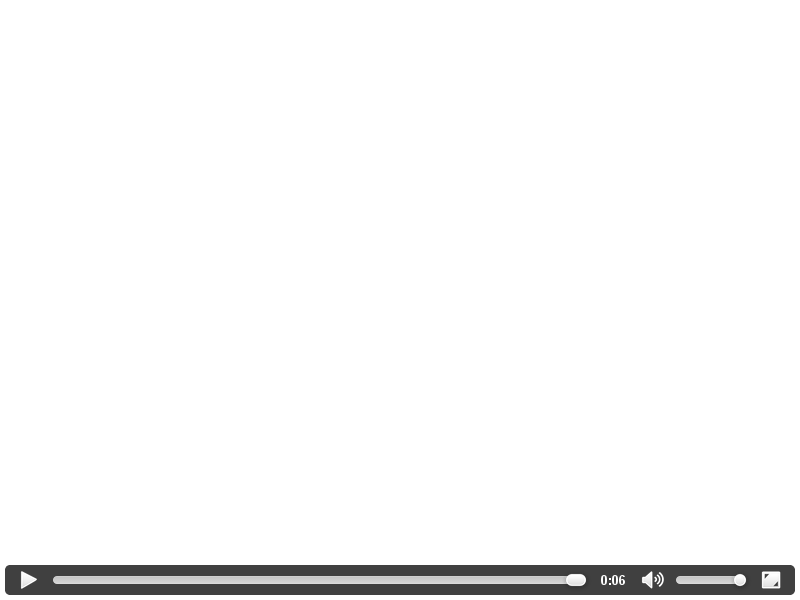
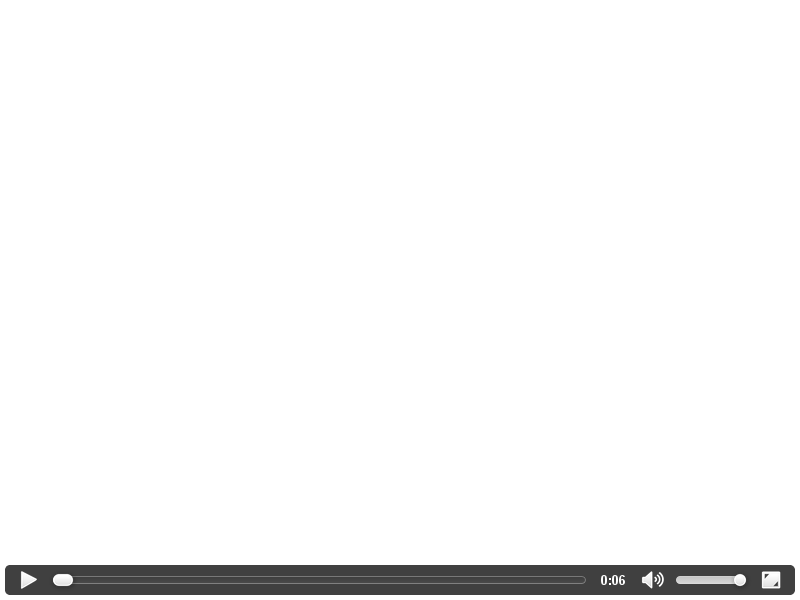
If the media controls are visible they should always grab clicks
Once we have decided to show the media controls it makes no sense to
allow the page to change their handling. This CL ensures that, if the
media controls are shown, then clicks on them actually get to them.

BUG=388738
BUG=269454

Review URL: https://codereview.chromium.org/406213002

git-svn-id: svn://svn.chromium.org/blink/trunk@179397 bbb929c8-8fbe-4397-9dbb-9b2b20218538

Changed region(s): [[0.0625, 0.96, 0.75, 0.99]]

diff --git a/LayoutTests/media/video-controls-touch-events-captured.html b/LayoutTests/media/video-controls-touch-events-captured.html
@@ -1,0 +1,60 @@
+<!DOCTYPE html>
+<html>
+<head>
+
+</head>
+<body>
+    <video controls></video>
+    <p>This tests that touch events on the controls will not be seen by the video element.</p>
+    <script src=media-file.js></script>
+    <script src=video-test.js></script>
+    <script src=media-controls.js></script>
+    <script>
+        waitForEventAndFail("click");
+        waitForEventAndFail("dblclick");
+        waitForEventAndFail("touchstart");
+        waitForEventAndFail("touchend");
+        waitForEventAndFail("touchmove");
+
+        waitForEventAndEnd("loadeddata", function()
+        {
+            if (window.eventSender) {
+                // click the play button
+                var coords = mediaControlsButtonCoordinates(video, "play-button");
+                eventSender.addTouchPoint(coords[0], coords[1]);
+
+                eventSender.touchStart();
+                eventSender.leapForward(100);
+                eventSender.touchEnd();
+                eventSender.cancelTouchPoint(0);
+
+                // Click the current time display, which should not respond to events, but
+                // should still capture them
+                coords = mediaControlsButtonCoordinates(video, "current-time-display");
+                eventSender.addTouchPoint(coords[0], coords[1]);
+
+                eventSender.touchStart();
+                eventSender.leapForward(100);
+                eventSender.touchEnd();
+                eventSender.cancelTouchPoint(0);
+
+
+                // Click the timeline - this tests that multilevel shadow DOM elements work
+                coords = mediaControlsButtonCoordinates(video, "timeline");
+                eventSender.addTouchPoint(coords[0], coords[1]);
+
+                eventSender.touchStart();
+                eventSender.leapForward(100);
+                eventSender.touchEnd();
+
+                // Check that the timeline also captures moves
+                eventSender.updateTouchPoint(0, coords[0]+10, coords[1]+10)
+                eventSender.touchMove();
+                eventSender.cancelTouchPoint(0);
+
+            }
+        });
+        video.src = findMediaFile("video", "content/test");
+    </script>
+</body>
+</html>

diff --git a/LayoutTests/media/video-controls-mouse-events-captured.html b/LayoutTests/media/video-controls-mouse-events-captured.html
@@ -1,0 +1,57 @@
+<!DOCTYPE html>
+<html>
+<head>
+
+</head>
+<body>
+    <video controls></video>
+    <p>This tests that a mouse events on the controls will not be seen by the video element.</p>
+    <p>Also tests keyboard input.</p>
+    <script src=media-file.js></script>
+    <script src=video-test.js></script>
+    <script src=media-controls.js></script>
+    <script>
+        waitForEventAndFail("click");
+        waitForEventAndFail("dblclick");
+        waitForEventAndFail("mousedown");
+        waitForEventAndFail("mouseup");
+        waitForEventAndFail("keydown");
+
+        waitForEventAndEnd("loadeddata", function()
+        {
+            if (window.eventSender) {
+                // click the play button
+                var coords = mediaControlsButtonCoordinates(video, "play-button");
+                eventSender.mouseMoveTo(coords[0], coords[1]);
+
+                eventSender.mouseDown();
+                eventSender.mouseUp();
+                eventSender.keyDown('A');
+
+                // Click the current time display, which should not respond to events, but
+                // should still capture them
+                coords = mediaControlsButtonCoordinates(video, "current-time-display");
+                eventSender.mouseMoveTo(coords[0], coords[1]);
+
+                eventSender.mouseDown();
+                eventSender.mouseUp();
+                eventSender.keyDown('A');
+
+                // Click the timeline - this tests that multilevel shadow DOM elements work
+                coords = mediaControlsButtonCoordinates(video, "timeline");
+                eventSender.mouseMoveTo(coords[0], coords[1]);
+
+                eventSender.mouseDown();
+                eventSender.mouseUp();
+                eventSender.keyDown('A');
+
+                waitForEventAndFail("mousemove")
+                
+                // Check that the timeline also captures mousemove
+                eventSender.mouseMoveTo(coords[0]+10, coords[1]+10)
+            }
+        });
+        video.src = findMediaFile("video", "content/test");
+    </script>
+</body>
+</html>

diff --git a/LayoutTests/virtual/android/fullscreen/video-scrolled-iframe.html b/LayoutTests/virtual/android/fullscreen/video-scrolled-iframe.html
@@ -9,10 +9,10 @@
         if (!initialized) {
              window.scrollTo(0, 100);
             // video has been loaded and messaged us.
-            // Send click to center of iframe.
+            // Send click to iframe (not the center since this will hit the overlay play button).
             iframe = document.getElementById("frame");
-            x = iframe.offsetLeft + iframe.offsetWidth / 2;
-            y = iframe.offsetTop + iframe.offsetHeight / 2;
+            x = iframe.offsetLeft + 10;
+            y = iframe.offsetTop + 10;
             if (window.eventSender) {
                 eventSender.mouseMoveTo(x, y);
                 eventSender.mouseDown();

diff --git a/Source/core/html/shadow/MediaControlElements.cpp b/Source/core/html/shadow/MediaControlElements.cpp
@@ -59,6 +59,33 @@ static const AtomicString& getMediaControlTimeRemainingDisplayElementShadowPseud
 static const double fadeInDuration = 0.1;
 static const double fadeOutDuration = 0.3;
 
+static bool isUserInteractionEvent(Event* event)
+{
+    const AtomicString& type = event->type();
+    return type == EventTypeNames::mousedown
+        || type == EventTypeNames::mouseup
+        || type == EventTypeNames::click
+        || type == EventTypeNames::dblclick
+        || event->isKeyboardEvent()
+        || event->isTouchEvent();
+}
+
+// Sliders (the volume control and timeline) need to capture some additional events used when dragging the thumb.
+static bool isUserInteractionEventForSlider(Event* event)
+{
+    const AtomicString& type = event->type();
+    return type == EventTypeNames::mousedown
+        || type == EventTypeNames::mouseup
+        || type == EventTypeNames::click
+        || type == EventTypeNames::dblclick
+        || type == EventTypeNames::mouseover
+        || type == EventTypeNames::mouseout
+        || type == EventTypeNames::mousemove
+        || event->isKeyboardEvent()
+        || event->isTouchEvent();
+}
+
+
 MediaControlPanelElement::MediaControlPanelElement(MediaControls& mediaControls)
     : MediaControlDivElement(mediaControls, MediaControlsPanel)
     , m_isDisplayed(false)
@@ -145,6 +172,11 @@ void MediaControlPanelElement::makeTransparent()
 void MediaControlPanelElement::setIsDisplayed(bool isDisplayed)
 {
     m_isDisplayed = isDisplayed;
+}
+
+bool MediaControlPanelElement::keepEventInNode(Event* event)
+{
+    return isUserInteractionEvent(event);
 }
 
 // ----------------------------
@@ -295,6 +327,11 @@ const AtomicString& MediaControlOverlayPlayButtonElement::shadowPseudoId() const
     return id;
 }
 
+bool MediaControlOverlayPlayButtonElement::keepEventInNode(Event* event)
+{
+    return isUserInteractionEvent(event);
+}
+
 
 // ----------------------------
 
@@ -408,6 +445,11 @@ const AtomicString& MediaControlTimelineElement::shadowPseudoId() const
     return id;
 }
 
+bool MediaControlTimelineElement::keepEventInNode(Event* event)
+{
+    return isUserInteractionEventForSlider(event);
+}
+
 // ----------------------------
 
 MediaControlVolumeSliderElement::MediaControlVolumeSliderElement(MediaControls& mediaControls)
@@ -469,6 +511,11 @@ const AtomicString& MediaControlVolumeSliderElement::shadowPseudoId() const
 {
     DEFINE_STATIC_LOCAL(AtomicString, id, ("-webkit-media-controls-volume-slider", AtomicString::ConstructFromLiteral));
     return id;
+}
+
+bool MediaControlVolumeSliderElement::keepEventInNode(Event* event)
+{
+    return isUserInteractionEventForSlider(event);
 }
 
 // ----------------------------

diff --git a/Source/core/html/shadow/MediaControlElements.h b/Source/core/html/shadow/MediaControlElements.h
@@ -54,6 +54,7 @@ private:
     void startTimer();
     void stopTimer();
     void transitionTimerFired(Timer<MediaControlPanelElement>*);
+    virtual bool keepEventInNode(Event*) OVERRIDE;
 
     bool m_isDisplayed;
     bool m_opaque;
@@ -128,6 +129,7 @@ private:
 
     virtual const AtomicString& shadowPseudoId() const OVERRIDE;
     virtual void defaultEventHandler(Event*) OVERRIDE;
+    virtual bool keepEventInNode(Event*) OVERRIDE;
 };
 
 // ----------------------------
@@ -165,6 +167,7 @@ private:
 
     virtual const AtomicString& shadowPseudoId() const OVERRIDE;
     virtual void defaultEventHandler(Event*) OVERRIDE;
+    virtual bool keepEventInNode(Event*) OVERRIDE;
 };
 
 // ----------------------------
@@ -199,6 +202,7 @@ private:
 
     virtual const AtomicString& shadowPseudoId() const OVERRIDE;
     virtual void defaultEventHandler(Event*) OVERRIDE;
+    virtual bool keepEventInNode(Event*) OVERRIDE;
 };
 
 // ----------------------------

diff --git a/Source/core/events/EventPath.cpp b/Source/core/events/EventPath.cpp
@@ -119,6 +119,8 @@ void EventPath::calculatePath()
     if (!m_node->inDocument())
         return;
     while (current) {
+        if (m_event && current->keepEventInNode(m_event))
+            break;
         if (current->isShadowRoot() && m_event && determineDispatchBehavior(m_event, toShadowRoot(current), m_node) == StayInsideShadowDOM)
             break;
         WillBeHeapVector<RawPtrWillBeMember<InsertionPoint>, 8> insertionPoints;

diff --git a/Source/core/events/EventTarget.h b/Source/core/events/EventTarget.h
@@ -139,6 +139,8 @@ public:
 
     virtual void trace(Visitor*) { }
 
+    virtual bool keepEventInNode(Event*) { return false; };
+
 protected:
     EventTarget();
     virtual ~EventTarget();
